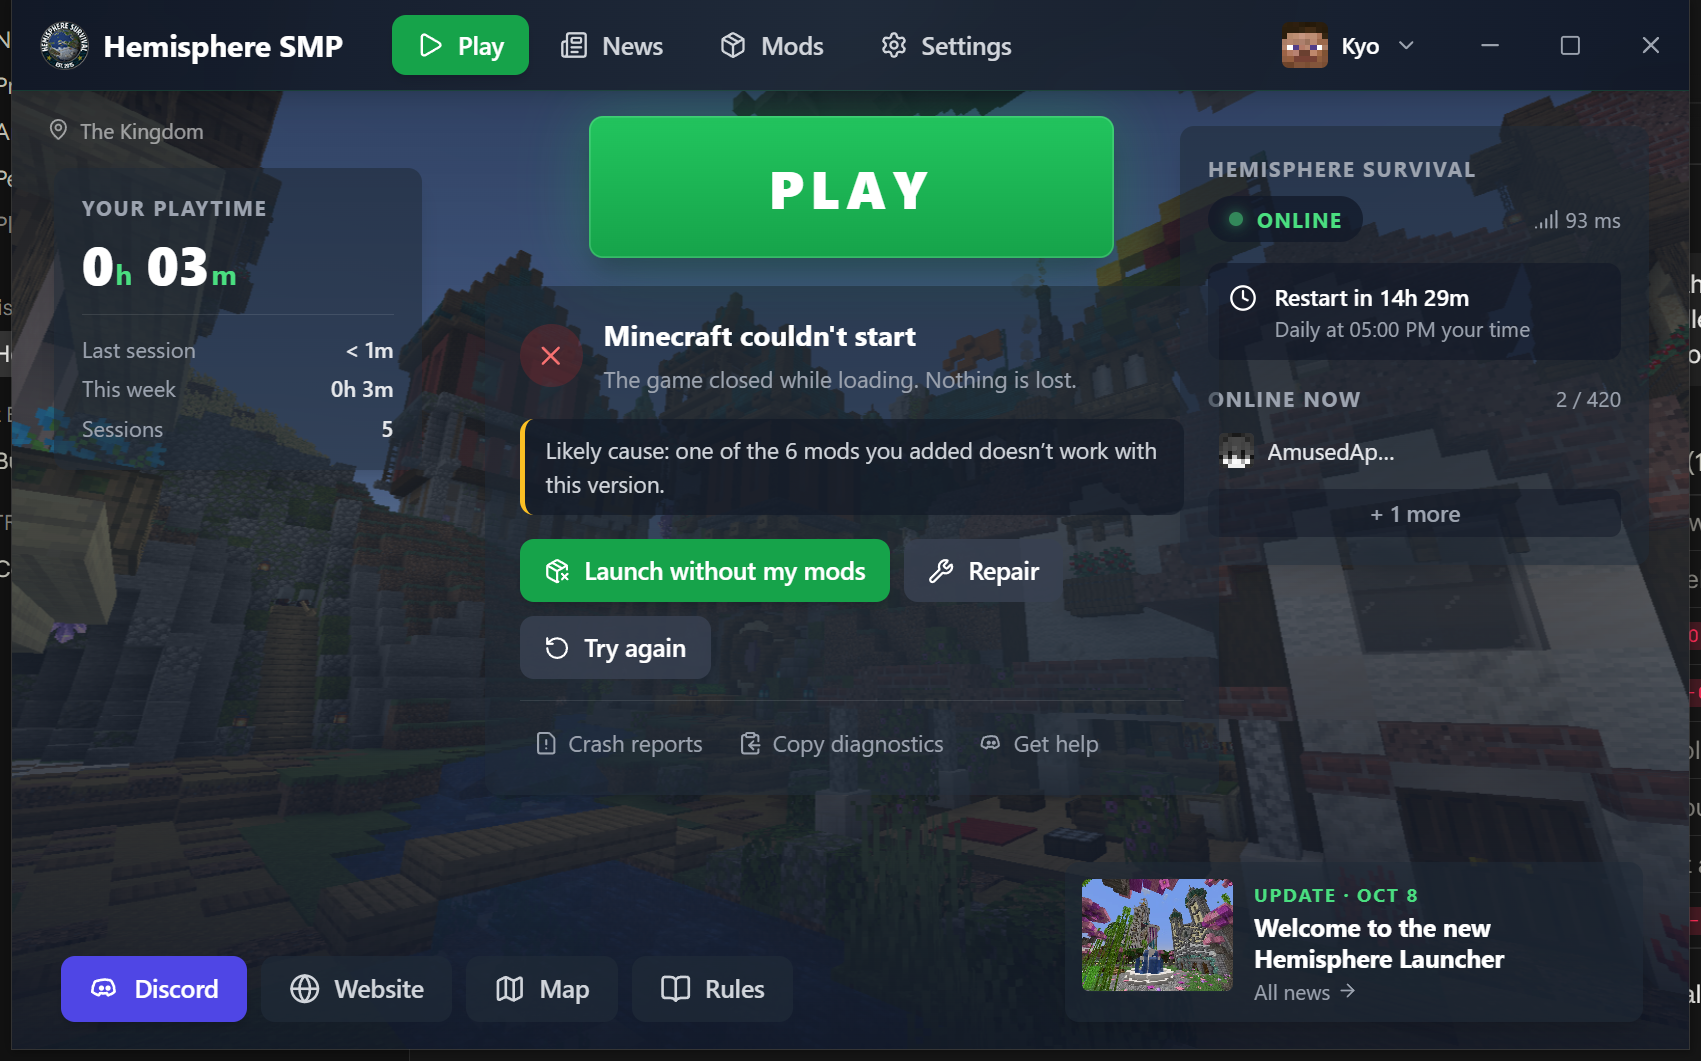
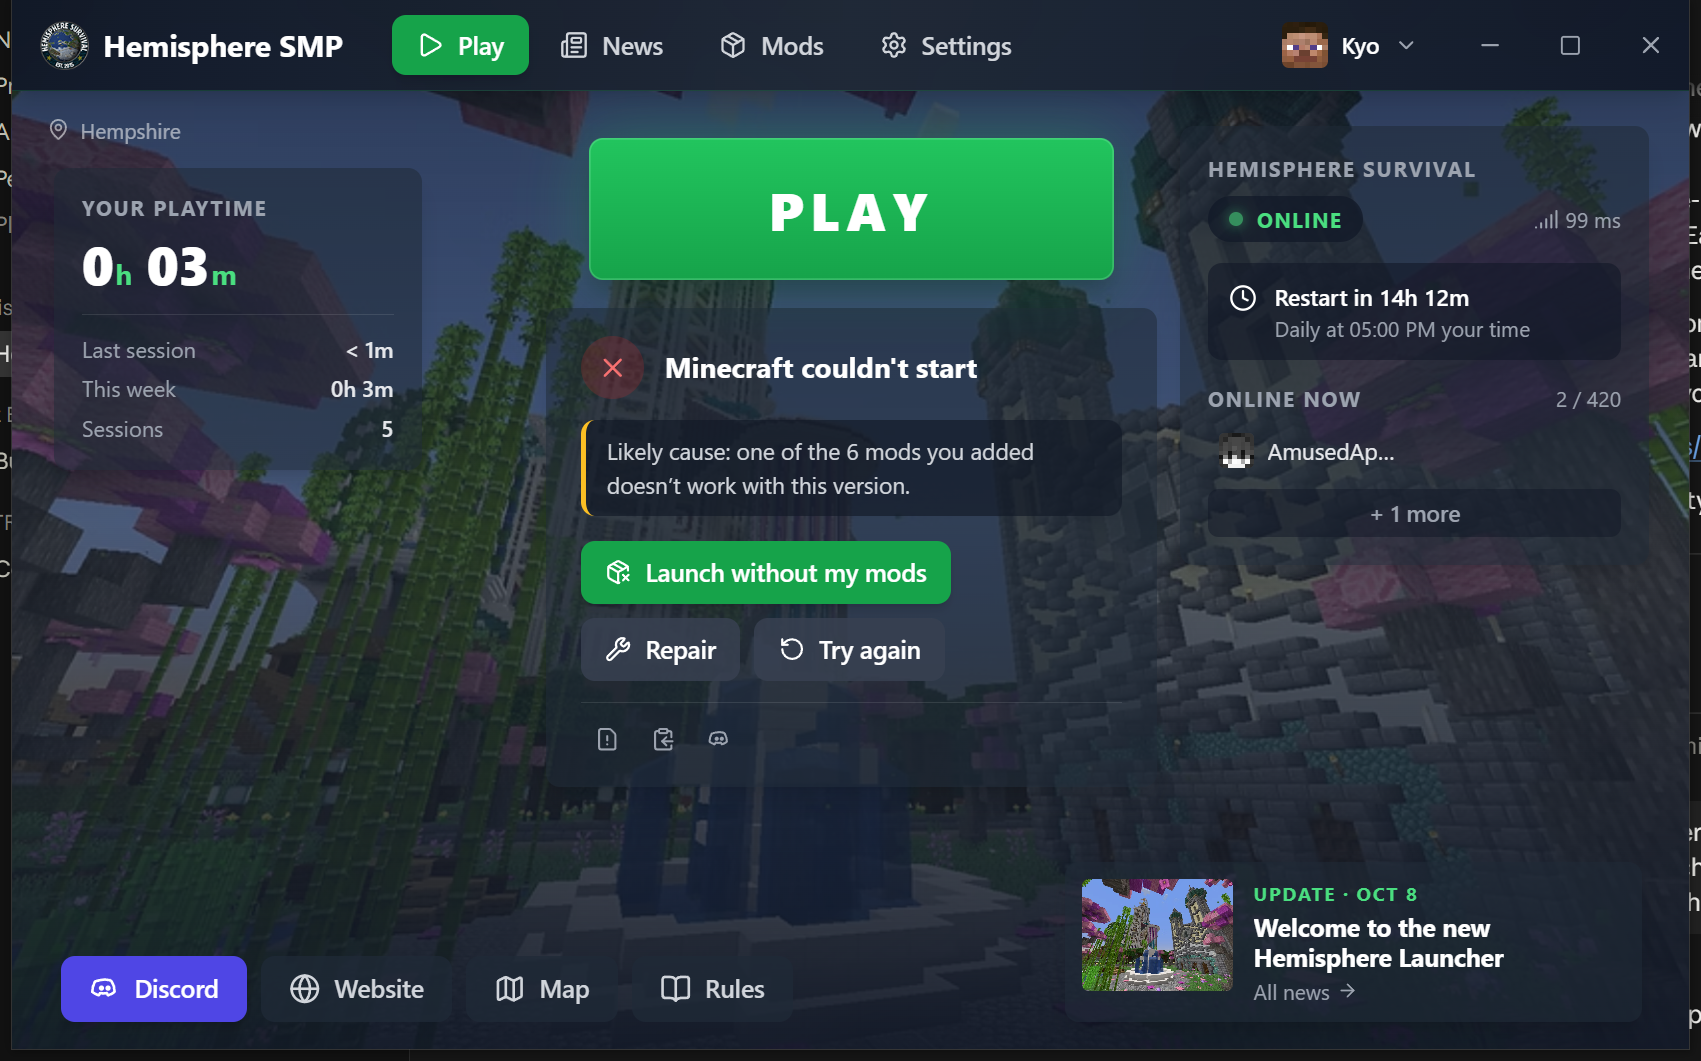
Home: crash card never overlaps, smooth scaling when resizing
- Crash card is never wider than the gap between the side panels; in narrow
  windows it drops the subtitle and shows the help links as icon buttons
- The crash card replaces the welcome title instead of stacking under it
- Title, spacing and bottom padding scale continuously with the window height
  (clamp) instead of jumping at a breakpoint; player head rows grow with height

diff --git a/src/renderer/src/components/CrashCard.tsx b/src/renderer/src/components/CrashCard.tsx
@@ -13,14 +13,16 @@ export default function CrashCard({ suspects, onRepair }: { suspects: string[]; 
   }, [])
 
   return (
-    <div className="glass animate-fade w-[480px] max-w-[calc(100vw-540px)] px-5 py-4 text-left" role="alert">
+    // Never wider than the gap between the side panels; in a narrow window it drops the subtitle and link labels
+    // (a container query) so it stays short enough to fit above the bottom row.
+    <div className="glass animate-fade @container w-[min(480px,calc(100vw-610px))] px-5 py-4 text-left" role="alert">
       <div className="flex items-center gap-3">
         <span className="grid h-9 w-9 flex-none place-items-center rounded-full bg-red-600/20 text-red-400">
           <X size={18} />
         </span>
         <div>
           <b className="block text-white">{t('crash.title')}</b>
-          <span className="text-[13px] text-gray-400">{t('crash.subtitle')}</span>
+          <span className="text-[13px] text-gray-400 @max-[400px]:hidden">{t('crash.subtitle')}</span>
         </div>
       </div>
 
@@ -48,7 +50,7 @@ export default function CrashCard({ suspects, onRepair }: { suspects: string[]; 
         </button>
       </div>
 
-      <div className="mt-3 flex flex-wrap items-center gap-1 border-t border-white/10 pt-2.5">
+      <div className="mt-3 flex flex-wrap items-center gap-x-0.5 border-t border-white/10 pt-2.5">
         <LinkButton onClick={() => window.hemisphere.system.openFolder('crashReports')} icon={<FileWarning size={14} />}>
           {t('crash.reports')}
         </LinkButton>
@@ -70,10 +72,14 @@ export default function CrashCard({ suspects, onRepair }: { suspects: string[]; 
   )
 }
 
-function LinkButton({ onClick, icon, children }: { onClick(): void; icon: React.ReactNode; children: React.ReactNode }) {
+function LinkButton({ onClick, icon, children }: { onClick(): void; icon: React.ReactNode; children: string }) {
   return (
-    <button onClick={onClick} className="flex items-center gap-1.5 rounded-md px-2 py-1 text-[13px] text-gray-400 transition-colors hover:bg-gray-700 hover:text-white">
-      {icon} {children}
+    <button
+      onClick={onClick}
+      title={children}
+      className="flex items-center gap-1.5 rounded-md px-2 py-1 text-[13px] whitespace-nowrap text-gray-400 transition-colors hover:bg-gray-700 hover:text-white"
+    >
+      {icon} <span className="@max-[400px]:sr-only">{children}</span>
     </button>
   )
 }

diff --git a/src/renderer/src/screens/Home.tsx b/src/renderer/src/screens/Home.tsx
@@ -31,24 +31,25 @@ export default function Home({ onOpenNews, onRepair, onImport }: { onOpenNews():
   const crashed = game?.error?.code === 'crashed'
 
   return (
-    <div className="relative flex h-full flex-col items-center px-7 pb-6 short:pb-4">
+    <div className="home-pad relative flex h-full flex-col items-center px-7">
       <PlaytimeCard key={active?.id} />
       <ImportPrompt onImport={onImport} />
       <ServerPanel status={status} feed={feed} />
 
       <section className="flex min-h-0 flex-1 flex-col items-center justify-center text-center">
         {active?.status === 'expired' && <ExpiredBanner />}
-        <h1
-          className={`animate-rise text-[44px] leading-[1.05] font-bold text-white uppercase drop-shadow-lg [animation-delay:100ms] short:text-[34px] ${crashed ? 'short:hidden' : ''}`}
-        >
-          {active ? t('home.welcomeBack') : t('home.welcomeTo')}
-          <br />
-          <span className="text-green-400">{active ? active.name : t('app.name')}</span>
-        </h1>
+        {/* the crash card takes the welcome title's place */}
+        {!crashed && (
+          <h1 className="home-title animate-rise leading-[1.05] font-bold text-white uppercase drop-shadow-lg [animation-delay:100ms]">
+            {active ? t('home.welcomeBack') : t('home.welcomeTo')}
+            <br />
+            <span className="text-green-400">{active ? active.name : t('app.name')}</span>
+          </h1>
+        )}
 
-        <div className="animate-rise mt-8 flex flex-col items-center [animation-delay:250ms] short:mt-5">
+        <div className={`animate-rise flex flex-col items-center [animation-delay:250ms] ${crashed ? '' : 'home-gap'}`}>
           <PlayZone client={client ?? null} onRepair={onRepair} />
-          <div className="mt-1 flex min-h-6 flex-col items-center gap-1 text-[13px] text-gray-400">
+          <div className={`mt-1 flex min-h-6 flex-col items-center gap-1 text-[13px] text-gray-400 ${crashed ? 'empty:hidden' : ''}`}>
             <ServerNotice offline={status?.online === false} feed={feed} />
             {feed?.maintenance.active && <MaintenanceBanner feed={feed} />}
           </div>

diff --git a/src/renderer/src/components/ServerPanel.tsx b/src/renderer/src/components/ServerPanel.tsx
@@ -3,11 +3,11 @@ import { Clock, Construction, Signal } from 'lucide-react'
 import type { ServerStatus } from '@shared/server'
 import type { Feed } from '@shared/feed'
 import { restartState, type RestartSchedule, type RestartState } from '@shared/restart'
-import { splitDuration, useNow, useShortWindow } from '../hooks'
+import { splitDuration, useNow, useWindowHeight } from '../hooks'
 
-// fewer heads in a short window so the panel never reaches the news card
-const MAX_HEADS = 10
-const MAX_HEADS_SHORT = 4
+// Rows of heads (2 per row) grow with the window height, so the panel never reaches the news card:
+// 2 rows in the smallest window, one more row every 40 px, up to 5 rows.
+const headRows = (height: number) => Math.min(5, Math.max(2, 2 + Math.floor((height - 600) / 40)))
 
 export default function ServerPanel({ status, feed }: { status: ServerStatus | null; feed: Feed | null }) {
   const { t, i18n } = useTranslation()
@@ -115,7 +115,7 @@ function RestartBox({ restart }: { restart: RestartState }) {
 
 function PlayerList({ status }: { status: ServerStatus }) {
   const { t } = useTranslation()
-  const shown = status.players.slice(0, useShortWindow() ? MAX_HEADS_SHORT : MAX_HEADS)
+  const shown = status.players.slice(0, headRows(useWindowHeight()) * 2)
   const total = status.playersOnline ?? status.players.length
   const more = total - shown.length
 

diff --git a/src/renderer/src/hooks.ts b/src/renderer/src/hooks.ts
@@ -2,17 +2,15 @@ import { useEffect, useState } from 'react'
 import type { PlaytimeSummary, ServerStatus } from '@shared/server'
 import type { Feed } from '@shared/feed'
 
-/** True while the window is short (same breakpoint as the CSS `short:` variant). */
-export function useShortWindow(): boolean {
-  const query = '(max-height: 720px)'
-  const [short, setShort] = useState(() => matchMedia(query).matches)
+/** Window height in CSS pixels, updated on resize. */
+export function useWindowHeight(): number {
+  const [height, setHeight] = useState(() => window.innerHeight)
   useEffect(() => {
-    const mq = matchMedia(query)
-    const onChange = () => setShort(mq.matches)
-    mq.addEventListener('change', onChange)
-    return () => mq.removeEventListener('change', onChange)
+    const onResize = () => setHeight(window.innerHeight)
+    window.addEventListener('resize', onResize)
+    return () => window.removeEventListener('resize', onResize)
   }, [])
-  return short
+  return height
 }
 
 /** Current time, re-rendered every `intervalMs`. */

diff --git a/src/renderer/src/styles/index.css b/src/renderer/src/styles/index.css
@@ -1,7 +1,5 @@
 @import 'tailwindcss';
 
-/* Compact layout for short windows (small laptop screens, resized window). */
-@custom-variant short (@media (max-height: 720px));
 
 /* Hemisphere design tokens (Phase 1). The website is built on Tailwind's default gray/green
    palette, so standard classes like bg-gray-900 or text-green-400 match it exactly. */
@@ -184,4 +182,16 @@
   to {
     background-position: -200% 0;
   }
+}
+
+/* Home scales smoothly with the window height (600 px window -> compact, 760 px and up -> full size)
+   instead of jumping at a breakpoint. */
+.home-title {
+  font-size: clamp(34px, calc(6.25vh - 3.5px), 44px);
+}
+.home-gap {
+  margin-top: clamp(20px, calc(7.5vh - 25px), 32px);
+}
+.home-pad {
+  padding-bottom: clamp(16px, calc(5vh - 14px), 24px);
 }
